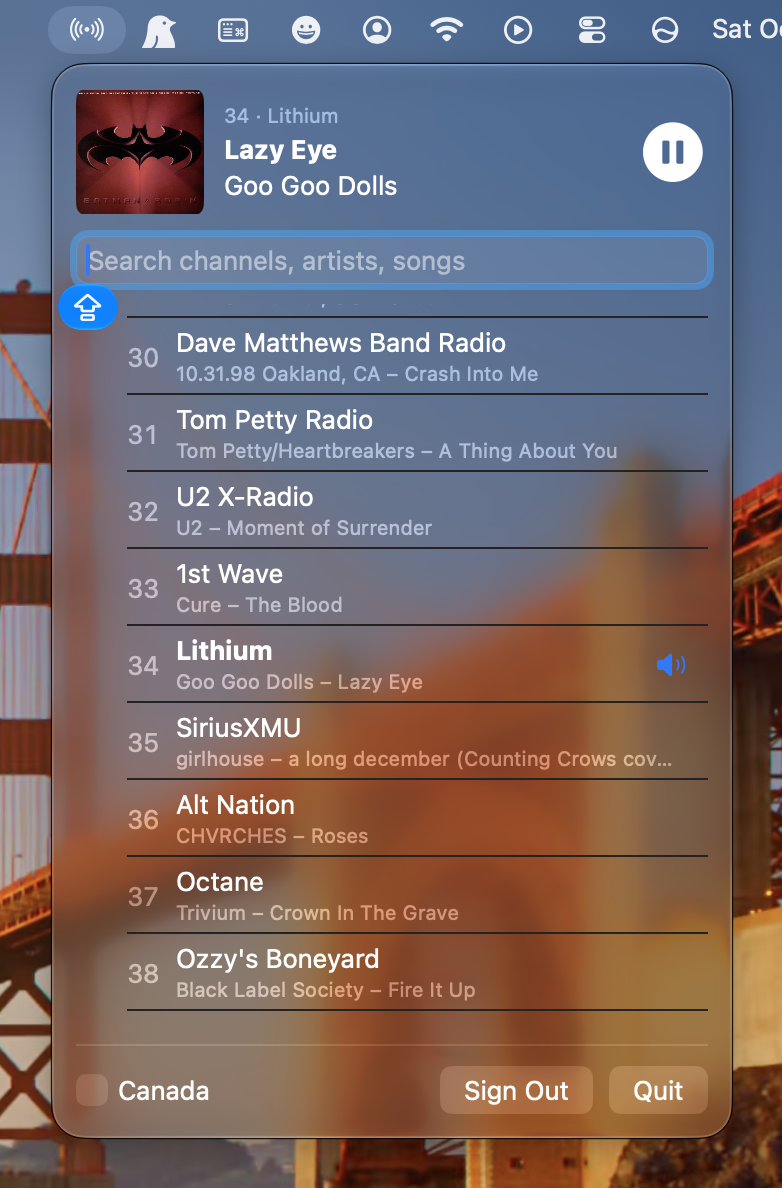
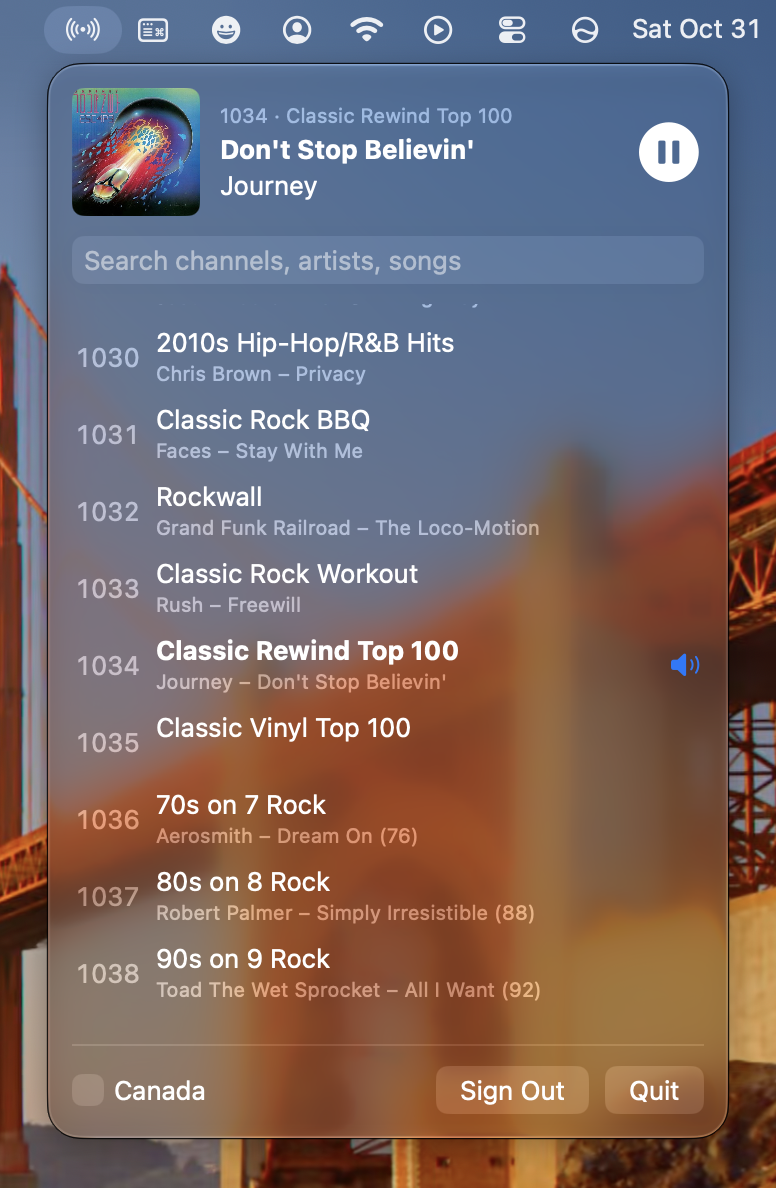
StarPlayrXMac 1.1: bump version, new screenshot, README Xtra channels

diff --git a/README.md b/README.md
@@ -24,12 +24,13 @@ StarPlayrX was built for visually impaired listeners, a group of paying subscrib
 ## 🎛 StarPlayrX for Mac (menu bar app)
 
 <p align="center">
-  <img src="docs/screenshot-mac.png" width="391" alt="StarPlayrX menu bar app playing Lazy Eye by Goo Goo Dolls on Lithium, channel 34, with a searchable channel list showing what's playing on each channel">
+  <img src="docs/screenshot-mac.png" width="388" alt="StarPlayrX menu bar app playing Don't Stop Believin' by Journey on Classic Rewind Top 100, channel 1034, with a searchable channel list showing what's playing on each channel">
 </p>
 
 - Lives in the menu bar (📻) with no Dock icon
 - Search channels, artists and songs
 - Shows what's playing on the current channel and every channel in the list
+- Xtra channels (1000+), searchable with "xtra" or "music"
 - Play/pause from the keyboard media keys and Control Center
 - US and Canada channel lineups
 - Your password is stored only in the macOS Keychain
